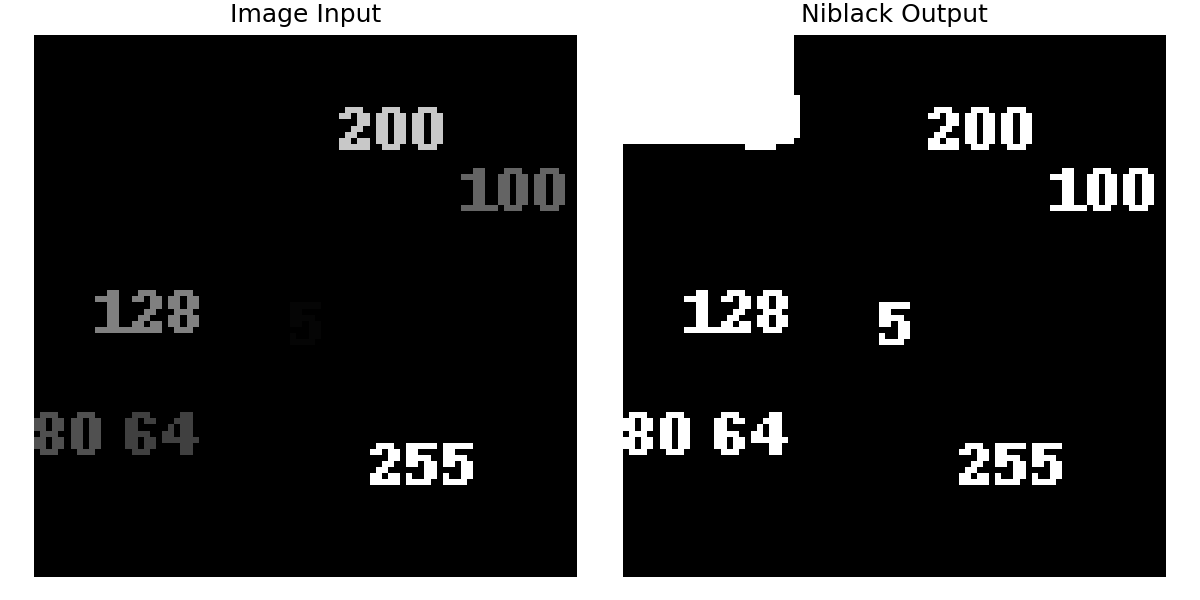
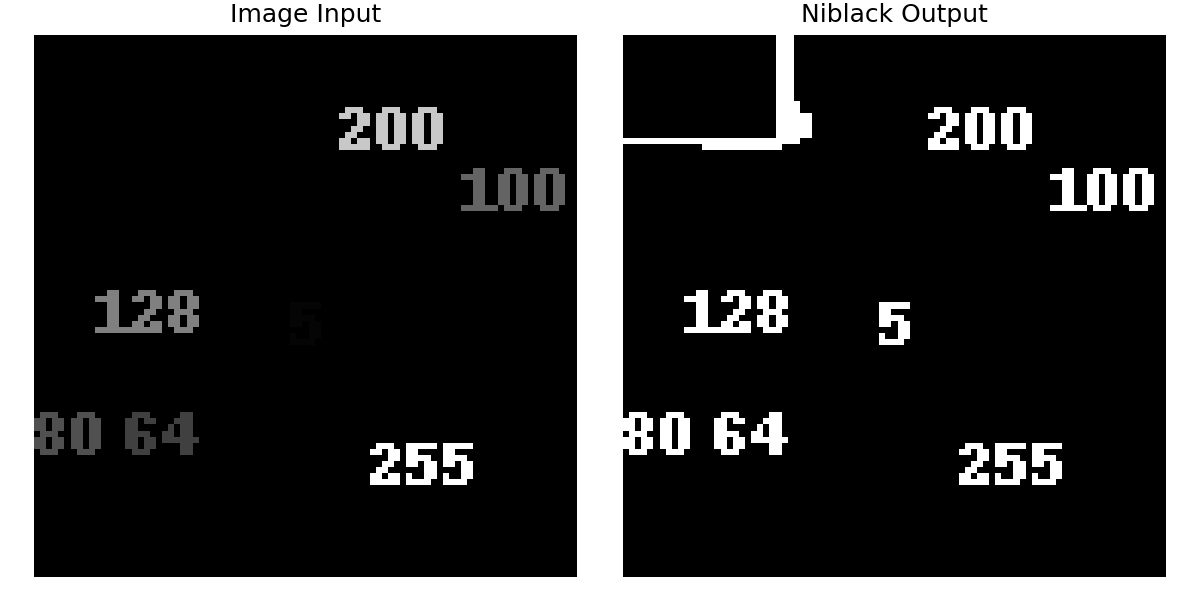
acuracia: 98.35%

Changed region(s): [[0.4933, 0.06, 0.6783, 0.27]]

diff --git a/niblack/niblack.c b/niblack/niblack.c
@@ -5,10 +5,17 @@
 #include <stdint.h>
 #include <ctype.h>
 
-#define WIDTH  89
-#define HEIGHT 89
-#define WINDOW_SIZE 51   
-#define K -0.1         
+#define WIDTH       89
+#define HEIGHT      89
+#define WINDOW_SIZE 51
+#define K          -0.1   
+
+/* Reflete coordenada x no intervalo [0..N-1] como faz o scipy.ndimage.uniform_filter(mode='reflect') */
+static inline int reflect(int x, int N) {
+    if (x < 0)       return -x;
+    else if (x >= N) return 2*N - 2 - x;
+    else             return x;
+}
 
 void read_pgm(const char* filename, uint8_t img[HEIGHT][WIDTH]) {
     FILE* f = fopen(filename, "r");
@@ -16,11 +23,10 @@ void read_pgm(const char* filename, uint8_t img[HEIGHT][WIDTH]) {
     char magic[3];
     int w, h, maxv;
     if (fscanf(f, "%2s", magic) != 1 || strcmp(magic, "P2") != 0) {
-        fprintf(stderr,"Arquivo não está em P2\n"); exit(1);
+        fprintf(stderr, "Arquivo não está em P2\n"); exit(1);
     }
     int ch;
-    while (1) {
-        ch = fgetc(f);
+    while ((ch = fgetc(f)) != EOF) {
         if (ch == '#') {
             while ((ch = fgetc(f)) != '\n' && ch != EOF);
         } else if (isspace(ch)) {
@@ -30,21 +36,18 @@ void read_pgm(const char* filename, uint8_t img[HEIGHT][WIDTH]) {
             break;
         }
     }
-    if (fscanf(f, "%d %d", &w, &h) != 2) {
-        fprintf(stderr,"Falha ao ler dimensões\n"); exit(1);
-    }
-    if (fscanf(f, "%d", &maxv) != 1) {
-        fprintf(stderr,"Falha ao ler valor máximo\n"); exit(1);
+    if (fscanf(f, "%d %d", &w, &h) != 2 || fscanf(f, "%d", &maxv) != 1) {
+        fprintf(stderr, "Erro lendo cabeçalho\n"); exit(1);
     }
     if (w != WIDTH || h != HEIGHT || maxv != 255) {
-        fprintf(stderr, "PGM não atende dimensões esperadas: %dx%d, maxv=%d\n", w, h, maxv);
+        fprintf(stderr, "Dimensões inesperadas: %dx%d, maxv=%d\n", w, h, maxv);
         exit(1);
     }
     for (int y = 0; y < HEIGHT; y++) {
         for (int x = 0; x < WIDTH; x++) {
             int v;
             if (fscanf(f, "%d", &v) != 1) {
-                fprintf(stderr,"Erro lendo pixel [%d,%d]\n", y, x);
+                fprintf(stderr, "Erro lendo pixel [%d,%d]\n", y, x);
                 exit(1);
             }
             img[y][x] = (uint8_t)v;
@@ -56,7 +59,7 @@ void read_pgm(const char* filename, uint8_t img[HEIGHT][WIDTH]) {
 void write_pgm(const char* filename, uint8_t img[HEIGHT][WIDTH]) {
     FILE* f = fopen(filename, "w");
     if (!f) { perror("fopen"); exit(1); }
-    fprintf(f, "P2\n# Niblack binarization\n%d %d\n255\n", WIDTH, HEIGHT);
+    fprintf(f, "P2\n# Niblack (match skimage)\n%d %d\n255\n", WIDTH, HEIGHT);
     for (int y = 0; y < HEIGHT; y++) {
         for (int x = 0; x < WIDTH; x++) {
             fprintf(f, "%d ", img[y][x]);
@@ -66,61 +69,31 @@ void write_pgm(const char* filename, uint8_t img[HEIGHT][WIDTH]) {
     fclose(f);
 }
 
-static inline int clamp(int v, int lo, int hi) {
-    return v < lo ? lo : (v > hi ? hi : v);
-}
-
-static inline int min(int a, int b) { return a < b ? a : b; }
-static inline int max(int a, int b) { return a > b ? a : b; }
-
-void niblack(uint8_t in[HEIGHT][WIDTH], uint8_t out[HEIGHT][WIDTH]) {
-    double integral[HEIGHT+1][WIDTH+1];
-    double integral_sq[HEIGHT+1][WIDTH+1];
-
-    for (int i = 0; i <= HEIGHT; i++) {
-        integral[i][0] = 0;
-        integral_sq[i][0] = 0;
-    }
-    for (int j = 0; j <= WIDTH; j++) {
-        integral[0][j] = 0;
-        integral_sq[0][j] = 0;
-    }
-
-    for (int y = 1; y <= HEIGHT; y++) {
-        for (int x = 1; x <= WIDTH; x++) {
-            double val = in[y-1][x-1];
-            integral[y][x] = val + integral[y-1][x] + integral[y][x-1] - integral[y-1][x-1];
-            integral_sq[y][x] = val*val + integral_sq[y-1][x] + integral_sq[y][x-1] - integral_sq[y-1][x-1];
-        }
-    }
-
+void niblack_skimage(uint8_t in[HEIGHT][WIDTH], uint8_t out[HEIGHT][WIDTH]) {
     int w = WINDOW_SIZE / 2;
+    int area = WINDOW_SIZE * WINDOW_SIZE;
+
     for (int y = 0; y < HEIGHT; y++) {
         for (int x = 0; x < WIDTH; x++) {
-            int x1 = max(x - w, 0);
-            int y1 = max(y - w, 0);
-            int x2 = min(x + w, WIDTH - 1);
-            int y2 = min(y + w, HEIGHT - 1);
-
-            int area = (y2 - y1 + 1) * (x2 - x1 + 1);
-
-            int _x1 = x1;
-            int _y1 = y1;
-            int _x2 = x2 + 1;
-            int _y2 = y2 + 1;
-
-            double sum = integral[_y2][_x2] - integral[_y1][_x2] - integral[_y2][_x1] + integral[_y1][_x1];
-            double sum_sq = integral_sq[_y2][_x2] - integral_sq[_y1][_x2] - integral_sq[_y2][_x1] + integral_sq[_y1][_x1];
-
+            double sum = 0.0, sum_sq = 0.0;
+            /* percorre toda janela WINDOW_SIZE x WINDOW_SIZE com reflect */
+            for (int dy = -w; dy <= w; dy++) {
+                int ry = reflect(y + dy, HEIGHT);
+                for (int dx = -w; dx <= w; dx++) {
+                    int rx = reflect(x + dx, WIDTH);
+                    double v = in[ry][rx] / 255.0;
+                    sum    += v;
+                    sum_sq += v * v;
+                }
+            }
             double mean = sum / area;
-            double variance = (sum_sq - (sum*sum)/area) / (area - 1);
-
-            if (variance < 0) variance = 0;
-            
-            double std = sqrt(variance);
-            double T = mean + K * std;
-
-            out[y][x] = (in[y][x] < T) ? 0 : 255;
+            double var  = sum_sq / area - mean * mean;
+            if (var < 0) var = 0;
+            double std  = sqrt(var);
+            double T    = mean + K * std;
+            /* compara na escala [0,1] e depois dessatura de volta */
+            double iv = in[y][x] / 255.0;
+            out[y][x] = (iv > T) ? 255 : 0;
         }
     }
 }
@@ -132,7 +105,7 @@ int main(int argc, char** argv) {
     }
     static uint8_t img_in[HEIGHT][WIDTH], img_out[HEIGHT][WIDTH];
     read_pgm(argv[1], img_in);
-    niblack(img_in, img_out);
+    niblack_skimage(img_in, img_out);
     write_pgm(argv[2], img_out);
     printf("Pronto: %s -> %s\n", argv[1], argv[2]);
     return 0;
